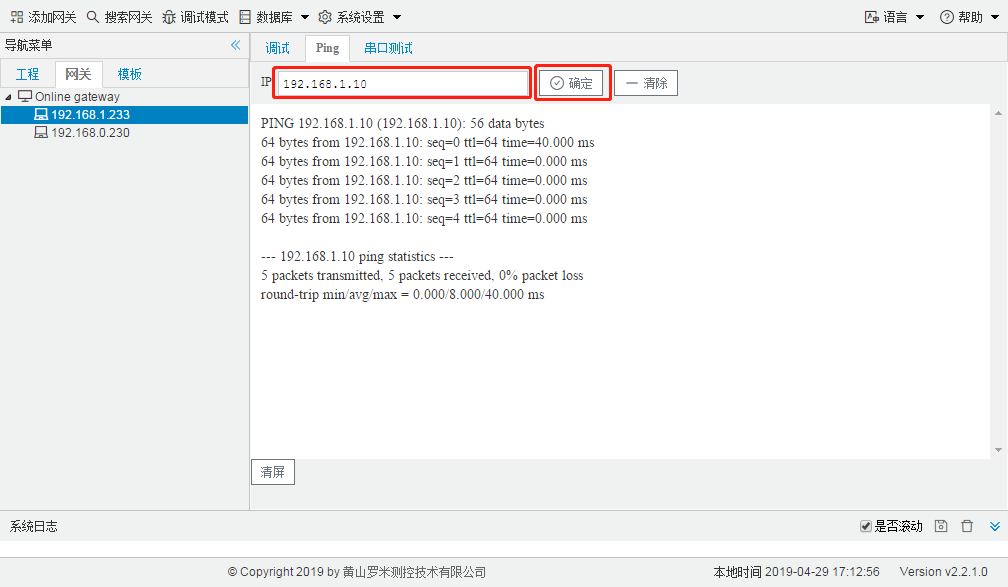
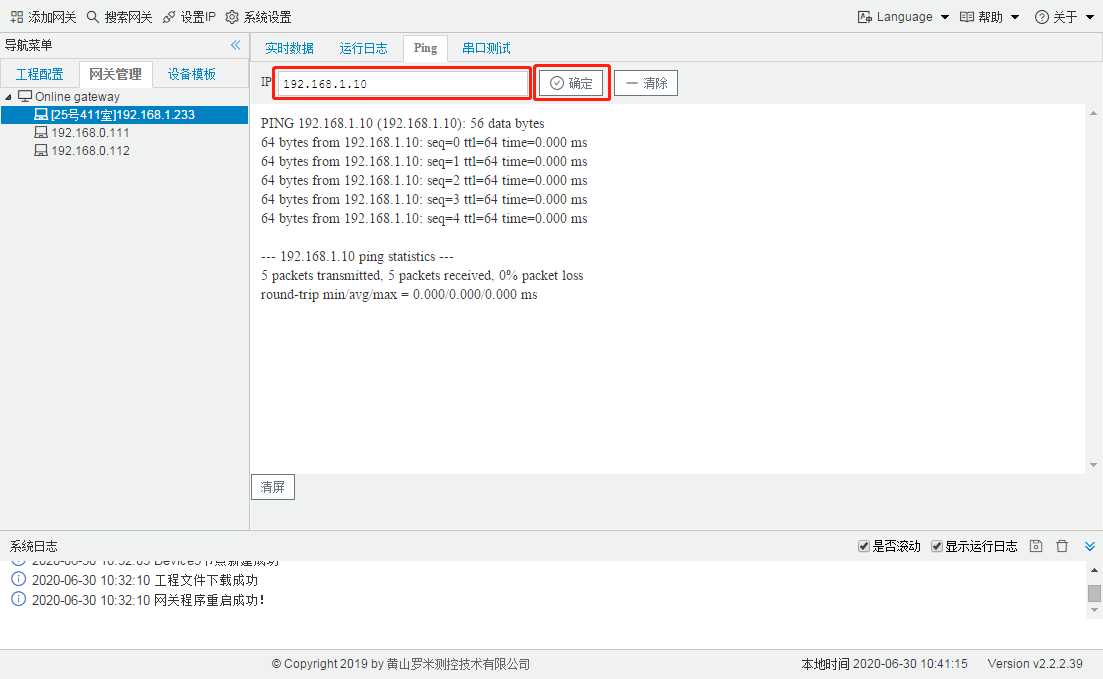
根据GC的更改和新增，修改文档

diff --git a/_book/ch6/ch6-2.md b/_book/ch6/ch6-2.md
@@ -2,19 +2,38 @@
 
 应用于快速连接罗米测控IoT数据中心。 
 
-1. 在浏览器中输入www.iotddc.com，注册或登录云平台，在“网关管理”中“添加”网关；
+1. 注册或登录云平台，未注册的用户可通过“注册或登录”的按钮进行注册；
 
-   ![iotddc](assets/iotddc.jpg)
+   ![注册或登录](assets/注册或登录.png)
 
-   <center> IoTDDC增加网关</center>
 
-2. 复制新建的网关ClientID，勾选“启用”，通过填写IP、ClientID，自定义上传周期，点击“保存”按钮即可完成IoTDCC的连接配置； 
 
-3. 点击“添加”按钮，完成需要上传的数据点的添加； 
+2. 新增网关标识，之前已经新增过标识的用户，可通过下拉框选择相应的标识，但不同的网关不能同时使用相同的标识；
 
-4. 点击“上传云端”按钮，将当前的工程上传到云服务器当中。 
+   ![网关唯一标识](assets/网关唯一标识-1594253372914.png)
 
-![6-9 IoTDCC](assets/6-9 IoTDCC.png)
 
-<center>图6-9 IoTDDC</center>
+
+3. 添加需要上传的数据点；
+
+   ![iotddc添加数据点](assets/iotddc添加数据点-1594254522147.png)
+
+
+
+4. 点击“保存并上传平台”，保存当前页面的配置，并将当前工程上传到云平台；
+5. 点击“PC端运行工程”或将工程下载到网关中运行，进行数据采集，将数据根据设定的上传周期上传到云平台；
+
+6. 在浏览器中输入www.iotddc.com，使用在GC中注册的用户，登录云平台的数据中心，查看实时数据和历史数据
+
+   ![iot数据中心](assets/iot数据中心-1594254951130.png)
+
+
+
+7. 客户可根据数据开放接口，推送数据进行存储和获取云平台中的数据
+
+   ![iotddc数据开放接口](assets/iotddc数据开放接口.png)
+
+   
+
+
 

diff --git a/ch6/ch6-1.md b/ch6/ch6-1.md
@@ -98,10 +98,13 @@
 
 **拓展主题**
 
+- 连接主题：mqtt连接成功时，将填写的字符串发布到相应的主题。
+
+  ![连接主题](assets/连接主题.png)
+
 - 离线数据发布：网关在mqtt断线时，实时数据会根据上传周期将数据缓存在网关中。在mqtt恢复连接时，网关会在离线主题依次发布缓存数据。
 
   - 网关设备缓存离线数据的容量为20M，当离线数据大于20M时，网关就会缓存新的一条离线数据时，删除最早的一条离线数据。 
-  
 - 查询数据主题：在配置界面中“查询数据订阅的主题”一项输入需要订阅的主题，当选中default.js时，网关订阅到如下格式的数据，就进行数据查询的操作，网关会在“查询数据发布的主题”发布此次查询到的结果。
 
 
@@ -120,7 +123,7 @@
 
 
 - 推送事件主题：如果在“报警与事件”(8.1章节)当中配置了报警事件，当报警事件触发或者解除时，网关通过推送事件的主题将该事件发布到Broker。 
-
+- 子设备状态推送主题：子设备为网关通讯的设备，在子设备上线和下线时会将状态推送到配置主题。
 - 写操作主题：在配置界面中“写操作订阅的主题”一项输入需要订阅的主题，当选中default.js时，发布如下格式的数据，网关进行相应的写操作。  
 
 ```json

diff --git a/ch6/ch6-2.md b/ch6/ch6-2.md
@@ -2,19 +2,16 @@
 
 应用于快速连接罗米测控IoT数据中心。 
 
-1. 在浏览器中输入www.iotddc.com，注册或登录云平台，在“网关管理”中“添加”网关；
+1. 在GC中注册或登录云平台；
 
-   ![iotddc](assets/iotddc.jpg)
+![注册或登录](assets/注册或登录.png)
 
-   <center> IoTDDC增加网关</center>
+2. 新增或者选择已有的网关唯一标识；
 
-2. 复制新建的网关ClientID，勾选“启用”，通过填写IP、ClientID，自定义上传周期，点击“保存”按钮即可完成IoTDCC的连接配置； 
+   ![网关唯一标识](assets/网关唯一标识.png)
 
-3. 点击“添加”按钮，完成需要上传的数据点的添加； 
-
-4. 点击“上传云端”按钮，将当前的工程上传到云服务器当中。 
+3. 点击“添加”按钮，完成需要上传的数据点的添加；
 
 ![6-9 IoTDCC](assets/6-9 IoTDCC.png)
 
-<center>图6-9 IoTDDC</center>
-
+4. 点击“保存并上传平台”按钮，将改页面保存，并将整体工程上传到云端平台，进行下一步数据点含义

diff --git a/ch5/ch5-3.md b/ch5/ch5-3.md
@@ -2,7 +2,22 @@
 
 OPC UA服务器实现了Tag点到对象属性的映射，允许上位机通过 OPC UA协议读写Tag点。 
 
+![OPC UA配置](assets/OPC UA配置.png)
+
 端口号：设置OPC UA侦听端口号，默认值是4840。 
+
+Anonymous：选中之后，启用匿名的方式连接 OPCUAServer。 
+
+Username、Password：选中之后，在“Username”填入 用户名，“Password”填入密码。启用户名密码的 
+
+方式连接 OPCUAServer。 
+
+Certificate：选中之后，点击“Load”，导入证书的路径。启用交换证书的方式连接OPCUAServer。 
+
+安全策略：None，Basic256，Basic128Rsa15，Basic256Sha256
+
+1. 当 选中为 None时，，OPCClient 和OPCServer 之间的通信将不会有加密和签名；
+2. 当 “安全策略”选中为 Basic256，Basic128Rsa15，Basic256Sha256中的任意一个时，OPCClient和OPCServer 之间的通信将会有签名或者签名和加密，提高客户端和服务器的通信安全。 
 
 **OPC UA对象属性映射** 
 

diff --git a/ch2/ch2-1.md b/ch2/ch2-1.md
@@ -14,7 +14,11 @@
 
 将网络中的LMGateway全部搜索并列到在线网关列表中。
 
-在1.1章节“新建工程”-“添加网关”时填写了备注，“搜索网关”时会将备注显示在IP之前。
+在“系统设置”的“网关备注”窗口中填写了备注，“搜索网关”时会将备注显示在IP之前。
+
+![设置备注](assets/设置备注.png)
+
+<center>图2-4 设置网关备注</center>
 
 ![2-4 搜索网关](assets/2-4 搜索网关.png)
 
@@ -24,7 +28,7 @@
 
 **查看网关信息** 
 
-双击网关IP，弹出窗口中包含网关的硬件版本、软件版本、支持点数和SN号，其中支持点数是指网关中的数据点低于支持点数时可以保证网关的运行效率。
+双击网关IP，弹出窗口中包含网关类型、软件版本、支持点数、网关备注、网关ID和SN号，其中支持点数是指网关中的数据点低于支持点数时可以保证网关的运行效率。
 
 ![2-5 网关信息](assets/2-5 网关信息.png)
 

diff --git a/ch2/ch2-4.md b/ch2/ch2-4.md
@@ -20,7 +20,7 @@ GC的调试模式分为三部分：网关数据采集日志和报文输出、网
 
 用户输入目标IP，点击“确定”按钮，网关对目标IP执行ping操作。(默认进行5次ping操作)。
 
-点击“调试”选项卡或者重启网关恢复正常采集、服务。
+点击“实时数据”选项卡、“运行日志”选项卡或者重启网关恢复正常采集、服务。
 
 ![2-15 ping测试](assets/2-15 ping测试.png)
 
@@ -31,6 +31,8 @@ GC的调试模式分为三部分：网关数据采集日志和报文输出、网
 ## 2.4.3 串口测试
 
 用户可以通过串口测试，设置网关串口，发送下方文本框中编辑的16进制报文，验证串口参数设置，查看报文收发。
+
+点击“实时数据”选项卡、“运行日志”选项卡或者重启网关恢复正常采集、服务。
 
 ![2-16 串口测试](assets/2-16 串口测试.png)
 

diff --git a/SUMMARY.md b/SUMMARY.md
@@ -21,7 +21,6 @@
 * [第四章 数据存储](ch4/README.md)
   - [4.1 数据存储配置](ch4/ch4-1.md)
   - [4.2 添加存储点](ch4/ch4-2.md)
-  - [4.3 历史上传](ch4/ch4-3.md)
 * [第五章 数据服务](ch5/README.md)
   - [5.1 Modbus](ch5/ch5-1.md)
   - [5.2 BACnet](ch5/ch5-2.md)
@@ -32,11 +31,9 @@
   - [6.2 IoTDDC](ch6/ch6-2.md)
   - [6.3 Alink](ch6/ch6-3.md)
   - [6.4 Tlink](ch6/ch6-4.md)
-  - [6.5 MQTT远程配置](ch6/ch6-5.md)
 - [第七章 任务计划](ch7/README.md)
 - [第八章 报警与事件](ch8/README.md)
   - [8.1 设置报警条件](ch8/ch8-1.md)
-  - [8.2 查询报警记录](ch8/ch8-2.md)
 - [第九章 JavaScript脚本编辑](ch9/README.md)
   - [9.1 操作步骤](ch9/ch9-1.md)
   - [9.2 函数说明](ch9/ch9-2.md)

diff --git a/ch5/ch5-1.md b/ch5/ch5-1.md
@@ -13,6 +13,8 @@ Modbus TCP和Modbus RTU通用参数如下：
   	使用默认值：相应的Modbus地址的点值置成表格中“默认值”列的值
 
   	使用最后正常值：相应的Modbus地址的点值最后一次采集正常的值
+  
+- 服务延迟启动时间：Modbus服务延时多少秒启动。
 
 **Modbus TCP配置** 
 
@@ -36,7 +38,7 @@ Modbus TCP和Modbus RTU通用参数如下：
 
 报文格式：指定以modbus TCP或modbus RTU格式的报文进行交互。
 
-心跳包格式：HBT + 心跳包ID。
+心跳包格式：序列号文本框中填写的文本。
 
 心跳周期：勾选则网关周期上传心跳包，不勾选则网关仅在上电时发送一次心跳包。
 

diff --git a/ch1/ch1-1.md b/ch1/ch1-1.md
@@ -26,8 +26,6 @@
 
 <center>图1-3 添加网关</center>
 
-
-
 网关添加完成以后，在工程名称节点下会根据网关型号的不同，显示相应的工程树，如图1-4所示。
 
 ![1-4 添加网关设备完成](assets/1-4 添加网关设备完成.png)

diff --git a/ch5/README.md b/ch5/README.md
@@ -1,4 +1,4 @@
 # 第五章 数据服务
 
-LMGateway为SCADA、BA等自控系统提供Modbus、BACnet、OPC UA数据服务。
+LMGateway为SCADA、BA等自控系统提供Modbus、BACnet、OPC UA、OPC DA数据服务。
 
